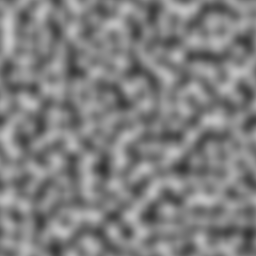
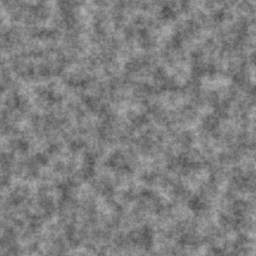
Speedlines but using camera-x?

diff --git a/src/rendering/renderer.cpp b/src/rendering/renderer.cpp
@@ -202,7 +202,7 @@ void Renderer::NewFrame()
     this->views.clear();
 }
 
-void Renderer::Render(Scene *scene, float deltaTime)
+void Renderer::Render(Scene *scene, float totalTime, float deltaTime)
 {
     Debug::BeginTimedStatistic("Rendering");
 
@@ -214,7 +214,7 @@ void Renderer::Render(Scene *scene, float deltaTime)
     Debug::BeginTimedStatistic("Setup");
 
     this->deviceContext->ClearRenderTargetView(this->backBuffer.GetRenderTargetView(), this->clearColor);
-    this->sharedResources.UploadPerFrameData(this->deviceContext, deltaTime);
+    this->sharedResources.UploadPerFrameData(this->deviceContext, totalTime, deltaTime);
 
     RenderView *primary = RenderUtils::GetView(this->views, ViewType::PRIMARY);
     if (!primary)

diff --git a/src/core/application.cpp b/src/core/application.cpp
@@ -17,6 +17,7 @@ void Application::Update(float deltaTime)
 {
     Debug::BeginTimedStatistic("Update");
 
+    this->totalTime += deltaTime;
     this->deltaTimeElapsed += deltaTime;
     int numFixedTicks = 0;
 
@@ -62,7 +63,7 @@ void Application::PreRender(float deltaTime)
 
 void Application::Render(float deltaTime) 
 {
-    this->renderer.Render(this->sceneManager.GetCurrentScene(), deltaTime);
+    this->renderer.Render(this->sceneManager.GetCurrentScene(), this->totalTime, deltaTime);
 
     this->imGuiLayer.Present();
     this->renderer.Present();

diff --git a/src/rendering/shared_resources.cpp b/src/rendering/shared_resources.cpp
@@ -583,9 +583,10 @@ void SharedResources::UploadPerViewData(ID3D11DeviceContext *deviceContext, cons
 	RenderUtils::UploadConstantBuffer(deviceContext, this->perViewCB, data);
 }
 
-void SharedResources::UploadPerFrameData(ID3D11DeviceContext *deviceContext, float deltaTime)
+void SharedResources::UploadPerFrameData(ID3D11DeviceContext *deviceContext, float totalTime, float deltaTime)
 {
     PerFrameData data{};
+    data.totalTime = totalTime;
     data.deltaTime = deltaTime;
     data.ticks = static_cast<uint32_t>(SDL_GetTicks());
 

diff --git a/src/rendering/shared_resources.hpp b/src/rendering/shared_resources.hpp
@@ -112,7 +112,7 @@ public:
 		const RenderView &view
 	) const;
 
-	void UploadPerFrameData(ID3D11DeviceContext *deviceContext, float deltaTime);
+	void UploadPerFrameData(ID3D11DeviceContext *deviceContext, float totalTime, float deltaTime);
 
     void UploadSkinMatrices(ID3D11DeviceContext *deviceContext, const XMFLOAT4X4 *skinMatrices, uint32_t skinMatricesCount);
 

diff --git a/src/rendering/renderer.hpp b/src/rendering/renderer.hpp
@@ -55,7 +55,7 @@ public:
 	void Shutdown();
 
     void NewFrame();
-	void Render(Scene *scene, float deltaTime);
+	void Render(Scene *scene, float totalTime, float deltaTime);
     void Present();
 
     bool Resize(uint32_t width, uint32_t height);

diff --git a/src/rendering/render_data.hpp b/src/rendering/render_data.hpp
@@ -19,9 +19,10 @@ using namespace DirectX;
 
 struct PerFrameData
 {
+    float totalTime;
     float deltaTime;
     uint32_t ticks;
-    XMFLOAT2   pad0;
+    float   pad0;
 };
 AssertCBufferSize(PerFrameData);
 

diff --git a/src/core/application.hpp b/src/core/application.hpp
@@ -17,6 +17,7 @@ struct AppContext;
 
 class Application 
 {
+    float totalTime = 0.0f;
     float fixedDeltaTime = 1.0f / 60.0f;
     float deltaTimeElapsed = 0.0f;
 
